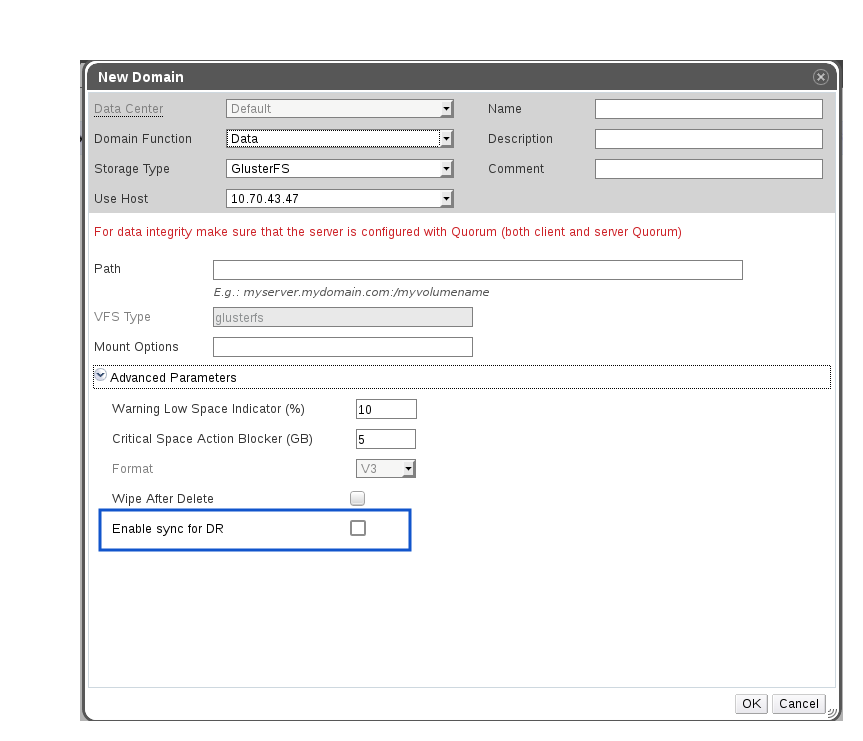
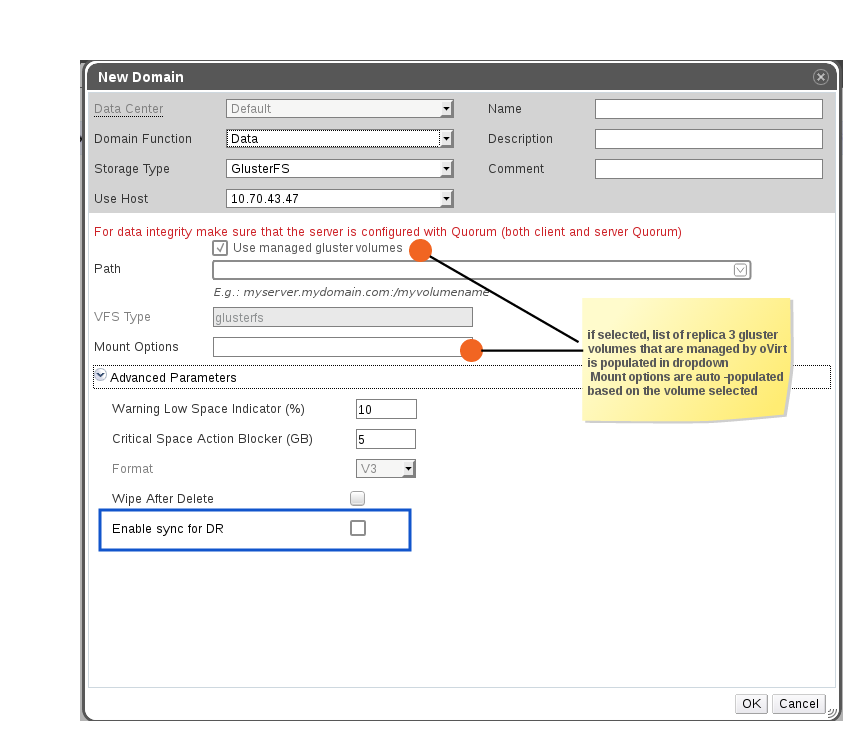
Updated images and DR page

diff --git a/source/develop/release-management/features/gluster/gluster-dr.html.md b/source/develop/release-management/features/gluster/gluster-dr.html.md
@@ -30,6 +30,9 @@ feature_status: Design
 * DR solution should not affect the functioning of the oVirt deployment - that is, no performance hits, no VMs being stopped or paused.
 
 ## Solution
+
+### Sync to secondary site
+
 Gluster provides a way to replicate/mirror a gluster volume to another remote location using a feature called [Geo-replication](https://gluster.readthedocs.io/en/latest/Administrator%20Guide/Geo%20Replication/). This offers a continuous, asynchronous, and incremental replication service from one site to another over Local Area Networks (LANs), Wide Area Network (WANs), and across the Internet. Since glusterfs 3.7.9, there's a periodic geo-replication script available that will checkpoint the data at any given time and ensure all checkpointed data is replicted to configured secondary site.(known as `slave gluster volume` in gluster parlance)
 
 Since oVirt uses gluster volume as storage domains, we can make use of this feature to provide a DR solution for gluster storage domains.
@@ -50,13 +53,26 @@ If we were to perform the above via script, the steps would be:
 
 Such a script is already available at [ovirt-georep-backup](https://github.com/sabose/ovirt-georep-backup)
 
-To integrate this better into oVirt and provide users a seamless way of managing and monitoring the DR solution, we need enhancements to this approach. Sections below will outline the design to do so.
+### Recovery on disaster
+
+In the event of a disaster, the storage domain can be attached to a running instance of oVirt. 
+
+1. A new instance of oVirt is setup with a master storage domain.(see [Quick_Start_Guide#Install_oVirt](/Quick_Start_Guide#Install_oVirt)). A master storage domain needs to be active in oVirt to initialize the Data Center and perform further operations
+2. Use the [Import Storage Domain](/Features/ImportStorageDomain) feature to import the gluster volume from secondary site (the one setup as slave gluster volume in previous setup)
+    - In case the storage domain contains the VMs and all its disks, the VMs can be imported to the new oVirt instance
+    - In case the storage domain contains only floating disks (i.e not attached to any VMs or where the storage domain does not contain the VM's OS disks), the disks can be registered via GUI (see [Bug 1138139](https://bugzilla.redhat.com/show_bug.cgi?id=1138139))
+        * There's currently an issue where disks with snapshots cannot be registered. The overlay image file needs to be manually deleted from the storage domain before this is possible.
+
+
+To integrate this solution better into oVirt and provide users a seamless way of managing and monitoring the DR solution, we need enhancements to this approach. Sections below will outline the design to do so.
 
 ## Enhancements
 
 ### UX
 
 * Allow enabling sync for disaster recovery on storage domain. This will currently be available for gluster storage domains alone, but can be extended to cover other storage domain types later
+    - Change the path option to enable choosing gluster volume that's managed by oVirt
+    - DR sync can be enabled only if the gluster volume is managed via oVirt. A warning will be displayed to user if the gluster volume is not managed by this instance of oVirt
 
 ![StorageDomain-DR](storagedomain-dr.png)
 
@@ -66,10 +82,10 @@ To integrate this better into oVirt and provide users a seamless way of managing
 
 * Create a sub-tab under Storage domain for **DR setup**
     - DR sub-tab only shown for glusterfs storage types
-    - Display the current schedule for sync and the last run status
-    - Provide a way for user to edit the schedule for sync. Clicking on the ... button will open a dialog
+    - Display the current schedule for sync, sync location and the last run status
+    - Provide a way for user to edit the schedule for sync. Clicking on the [...] button will open a dialog
 
-![StorageDomain-DR-Setup](dr-setup.png)
+![StorageDomain-DR-Setup](storage-domain-dr-setup.png)
 
 ### Database changes
 
